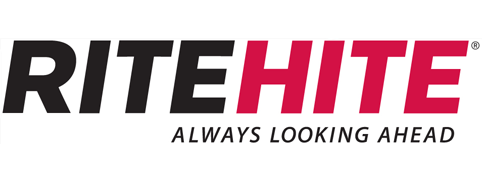
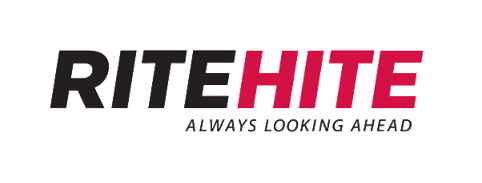
Change partner button images to have padding

Changed region(s): [[0.0, 0.2186, 0.9959, 0.7923]]

diff --git a/Display test/Form1.Designer.cs b/Display test/Form1.Designer.cs
@@ -149,8 +149,8 @@ namespace Display_test
             this.btnPartner9.Name = "btnPartner9";
             this.btnPartner9.Size = new System.Drawing.Size(322, 181);
             this.btnPartner9.TabIndex = 46;
-            this.btnPartner9.UseVisualStyleBackColor = false;
             this.btnPartner9.TabStop = false;
+            this.btnPartner9.UseVisualStyleBackColor = false;
             this.btnPartner9.Click += new System.EventHandler(this.btnPartner9_Click);
             // 
             // btnPartner8
@@ -166,8 +166,8 @@ namespace Display_test
             this.btnPartner8.Name = "btnPartner8";
             this.btnPartner8.Size = new System.Drawing.Size(322, 181);
             this.btnPartner8.TabIndex = 45;
-            this.btnPartner8.UseVisualStyleBackColor = false;
             this.btnPartner8.TabStop = false;
+            this.btnPartner8.UseVisualStyleBackColor = false;
             this.btnPartner8.Click += new System.EventHandler(this.btnPartner8_Click);
             // 
             // btnPartner7
@@ -184,8 +184,8 @@ namespace Display_test
             this.btnPartner7.Size = new System.Drawing.Size(322, 181);
             this.btnPartner7.TabIndex = 44;
             this.btnPartner7.TabStop = false;
-            this.btnPartner7.Click += new System.EventHandler(this.btnPartner7_Click);
             this.btnPartner7.UseVisualStyleBackColor = false;
+            this.btnPartner7.Click += new System.EventHandler(this.btnPartner7_Click);
             // 
             // btnPartner6
             // 
@@ -201,8 +201,8 @@ namespace Display_test
             this.btnPartner6.Size = new System.Drawing.Size(322, 181);
             this.btnPartner6.TabIndex = 43;
             this.btnPartner6.TabStop = false;
-            this.btnPartner6.Click += new System.EventHandler(this.btnPartner6_Click);
             this.btnPartner6.UseVisualStyleBackColor = false;
+            this.btnPartner6.Click += new System.EventHandler(this.btnPartner6_Click);
             // 
             // btnPartner5
             // 
@@ -218,8 +218,8 @@ namespace Display_test
             this.btnPartner5.Size = new System.Drawing.Size(322, 181);
             this.btnPartner5.TabIndex = 42;
             this.btnPartner5.TabStop = false;
-            this.btnPartner5.Click += new System.EventHandler(this.btnPartner5_Click);
             this.btnPartner5.UseVisualStyleBackColor = false;
+            this.btnPartner5.Click += new System.EventHandler(this.btnPartner5_Click);
             // 
             // btnPartner4
             // 
@@ -235,14 +235,14 @@ namespace Display_test
             this.btnPartner4.Size = new System.Drawing.Size(322, 181);
             this.btnPartner4.TabIndex = 41;
             this.btnPartner4.TabStop = false;
-            this.btnPartner4.Click += new System.EventHandler(this.btnPartner4_Click);
             this.btnPartner4.UseVisualStyleBackColor = false;
+            this.btnPartner4.Click += new System.EventHandler(this.btnPartner4_Click);
             // 
             // btnPartner3
             // 
             this.btnPartner3.AutoSizeMode = System.Windows.Forms.AutoSizeMode.GrowAndShrink;
             this.btnPartner3.BackColor = System.Drawing.Color.White;
-            this.btnPartner3.BackgroundImage = global::Display_test.Properties.Resources.palmerholland;
+            this.btnPartner3.BackgroundImage = global::Display_test.Properties.Resources.palmerholland_tp;
             this.btnPartner3.BackgroundImageLayout = System.Windows.Forms.ImageLayout.Zoom;
             this.btnPartner3.Dock = System.Windows.Forms.DockStyle.Fill;
             this.btnPartner3.Font = new System.Drawing.Font("Microsoft Sans Serif", 72F, System.Drawing.FontStyle.Bold, System.Drawing.GraphicsUnit.Point, ((byte)(0)));
@@ -252,8 +252,8 @@ namespace Display_test
             this.btnPartner3.Size = new System.Drawing.Size(322, 181);
             this.btnPartner3.TabIndex = 40;
             this.btnPartner3.TabStop = false;
-            this.btnPartner3.Click += new System.EventHandler(this.btnPartner3_Click);
             this.btnPartner3.UseVisualStyleBackColor = false;
+            this.btnPartner3.Click += new System.EventHandler(this.btnPartner3_Click);
             // 
             // btnPartner2
             // 
@@ -269,14 +269,14 @@ namespace Display_test
             this.btnPartner2.Size = new System.Drawing.Size(322, 181);
             this.btnPartner2.TabIndex = 39;
             this.btnPartner2.TabStop = false;
-            this.btnPartner2.Click += new System.EventHandler(this.btnPartner2_Click);
             this.btnPartner2.UseVisualStyleBackColor = false;
+            this.btnPartner2.Click += new System.EventHandler(this.btnPartner2_Click);
             // 
             // btnPartner1
             // 
             this.btnPartner1.AutoSizeMode = System.Windows.Forms.AutoSizeMode.GrowAndShrink;
             this.btnPartner1.BackColor = System.Drawing.Color.White;
-            this.btnPartner1.BackgroundImage = global::Display_test.Properties.Resources.OhioCAT_whiteborder;
+            this.btnPartner1.BackgroundImage = global::Display_test.Properties.Resources.OhioCAT_whiteborder_tp;
             this.btnPartner1.BackgroundImageLayout = System.Windows.Forms.ImageLayout.Zoom;
             this.btnPartner1.Dock = System.Windows.Forms.DockStyle.Fill;
             this.btnPartner1.Font = new System.Drawing.Font("Microsoft Sans Serif", 72F, System.Drawing.FontStyle.Bold, System.Drawing.GraphicsUnit.Point, ((byte)(0)));
@@ -286,8 +286,8 @@ namespace Display_test
             this.btnPartner1.Size = new System.Drawing.Size(322, 181);
             this.btnPartner1.TabIndex = 38;
             this.btnPartner1.TabStop = false;
-            this.btnPartner1.Click += new System.EventHandler(this.btnPartner1_Click);
             this.btnPartner1.UseVisualStyleBackColor = false;
+            this.btnPartner1.Click += new System.EventHandler(this.btnPartner1_Click);
             // 
             // lblPartners
             // 

diff --git a/Display test/Properties/Resources.Designer.cs b/Display test/Properties/Resources.Designer.cs
@@ -623,9 +623,29 @@ namespace Display_test.Properties {
         /// <summary>
         ///   Looks up a localized resource of type System.Drawing.Bitmap.
         /// </summary>
+        internal static System.Drawing.Bitmap OhioCAT_whiteborder_tp {
+            get {
+                object obj = ResourceManager.GetObject("OhioCAT_whiteborder_tp", resourceCulture);
+                return ((System.Drawing.Bitmap)(obj));
+            }
+        }
+        
+        /// <summary>
+        ///   Looks up a localized resource of type System.Drawing.Bitmap.
+        /// </summary>
         internal static System.Drawing.Bitmap palmerholland {
             get {
                 object obj = ResourceManager.GetObject("palmerholland", resourceCulture);
+                return ((System.Drawing.Bitmap)(obj));
+            }
+        }
+        
+        /// <summary>
+        ///   Looks up a localized resource of type System.Drawing.Bitmap.
+        /// </summary>
+        internal static System.Drawing.Bitmap palmerholland_tp {
+            get {
+                object obj = ResourceManager.GetObject("palmerholland_tp", resourceCulture);
                 return ((System.Drawing.Bitmap)(obj));
             }
         }
